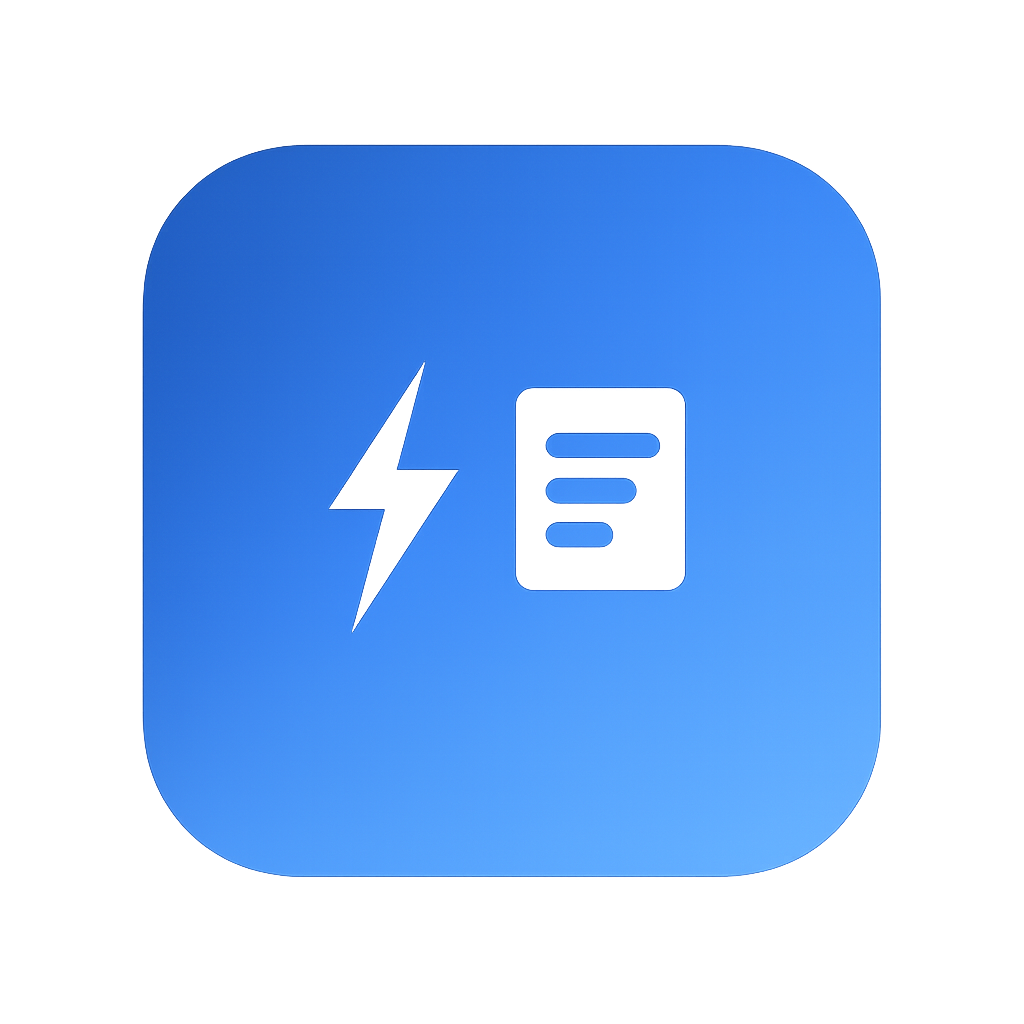
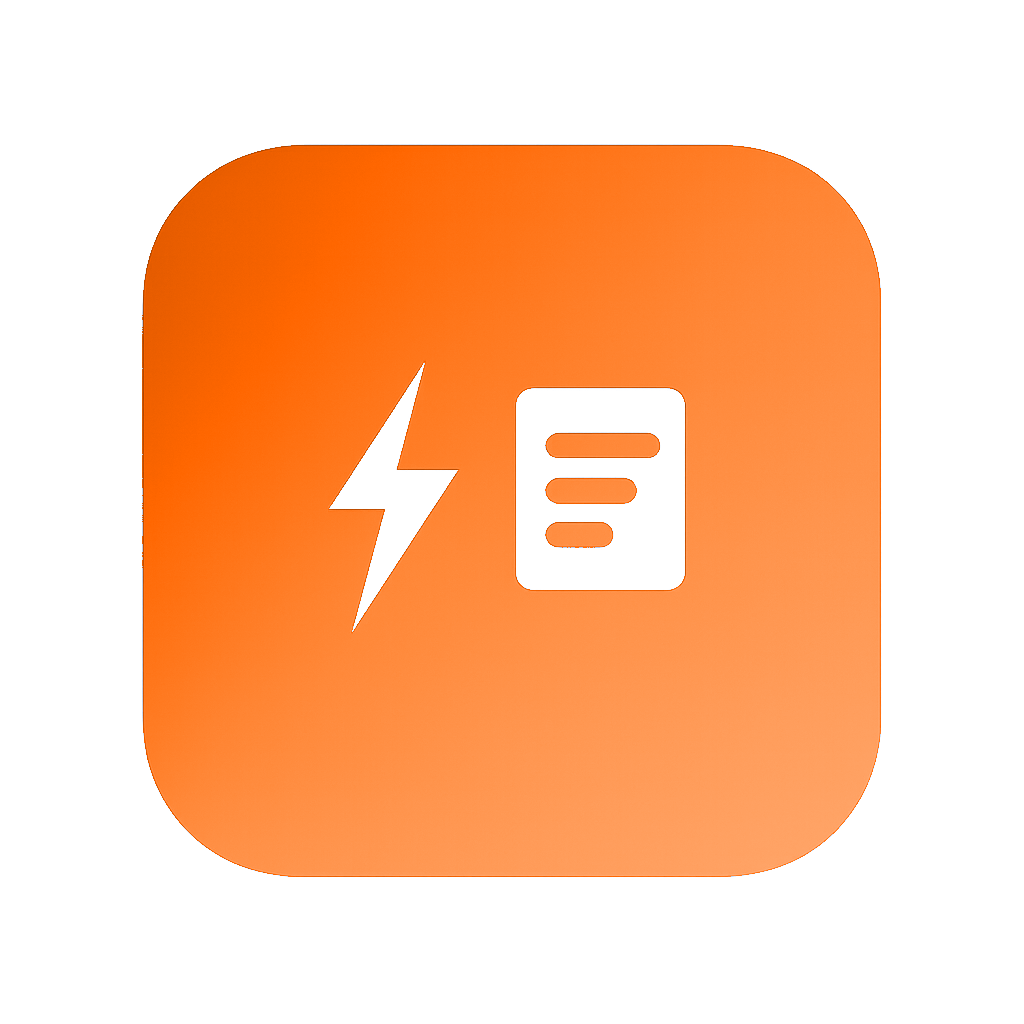
Change display theme website

diff --git a/src/components/Hero.tsx b/src/components/Hero.tsx
@@ -15,11 +15,11 @@ const Hero = () => {
   const Carousel = () => {
     const images = useMemo(
       () => [
-        '/images/nible/5.jpeg',
-        '/images/nible/1.jpeg',
-        '/images/nible/2.jpeg',
-        '/images/nible/4.jpeg',
-        '/images/nible/3.jpeg',
+        '/images/nible/5.png',
+        '/images/nible/1.png',
+        '/images/nible/2.png',
+        '/images/nible/4.png',
+        '/images/nible/3.png',
       ],
       []
     );
@@ -55,7 +55,7 @@ const Hero = () => {
             <span
               key={i}
               className={
-                "h-2 w-2 rounded-full " + (i === index ? "bg-white" : "bg-white/40")
+                "h-2 w-2 rounded-full " + (i === index ? "bg-primary" : "bg-primary/40")
               }
             />
           ))}
@@ -116,19 +116,19 @@ const Hero = () => {
             <div className="text-center lg:text-left">
               <div className="flex items-center justify-center lg:justify-start mb-6">
                 <Zap className="w-5 h-5 text-accent mr-2" />
-                <span className="text-accent font-inter font-medium text-base">Latest‑first • AI summarized</span>
+                <span className="text-accent font-inter font-medium text-base">Latest‑first • Ad-free</span>
               </div>
               
-              <h1 className="text-5xl sm:text-6xl lg:text-7xl font-poppins font-bold text-white mb-6 leading-tight">
+              <h1 className="text-5xl sm:text-6xl lg:text-7xl font-poppins font-bold text-foreground mb-6 leading-tight">
                 Fresh news.
                 <span className="text-primary block">Fast reads.</span>
               </h1>
               
-              <p className="text-xl sm:text-2xl text-white/80 font-inter mb-8 max-w-2xl mx-auto lg:mx-0">
-                Swipe through concise, AI‑crafted briefs—updated all day.
+              <p className="text-xl sm:text-2xl text-foreground/80 font-inter mb-8 max-w-2xl mx-auto lg:mx-0">
+                Swipe through concise, Ad-free briefs—updated all day.
               </p>
 
-              <p className="text-lg text-white/70 font-inter mb-12 max-w-xl mx-auto lg:mx-0">
+              <p className="text-lg text-foreground/70 font-inter mb-12 max-w-xl mx-auto lg:mx-0">
                 No fluff. Just what matters.
               </p>
 
@@ -145,17 +145,17 @@ const Hero = () => {
                     className="h-12"
                   />
                 </a>
-                <span className="inline-flex items-center bg-white/20 backdrop-blur-sm text-white/90 font-inter text-sm px-4 py-2 rounded-full">
+                <span className="inline-flex items-center bg-primary/10 backdrop-blur-sm text-foreground font-inter text-sm px-4 py-2 rounded-full border border-primary/20">
                   🤖 Android coming soon
                 </span>
               </div>
 
               {/* Newsletter Subscription */}
-              <div className="bg-white/10 backdrop-blur-sm rounded-2xl p-6 max-w-md mx-auto lg:mx-0">
-                <h3 className="text-white font-inter font-semibold text-lg mb-2">
+              <div className="bg-white/80 backdrop-blur-sm rounded-2xl p-6 max-w-md mx-auto lg:mx-0 border border-primary/20 shadow-lg">
+                <h3 className="text-foreground font-inter font-semibold text-lg mb-2">
                   📬 Subscribe to Daily Newsletter
                 </h3>
-                <p className="text-white/70 font-inter text-sm mb-4">
+                <p className="text-foreground/70 font-inter text-sm mb-4">
                   Get short news briefs delivered to your inbox every morning
                 </p>
                 <form onSubmit={handleNewsletterSubscribe} className="flex gap-3">
@@ -164,10 +164,10 @@ const Hero = () => {
                     placeholder="Enter your email" 
                     value={email} 
                     onChange={e => setEmail(e.target.value)} 
-                    className="bg-white/20 border-white/30 text-white placeholder:text-white/60 focus:border-white" 
+                    className="bg-white border-border text-foreground placeholder:text-muted-foreground focus:border-primary" 
                     required 
                   />
-                  <Button type="submit" className="bg-accent hover:bg-accent/90 text-accent-foreground px-6">
+                  <Button type="submit" className="bg-primary hover:bg-primary-hover text-primary-foreground px-6">
                     Subscribe
                   </Button>
                 </form>
@@ -175,14 +175,14 @@ const Hero = () => {
 
               {/* Social Media */}
               <div className="mt-6 text-center lg:text-left">
-                <p className="text-white/70 font-inter text-sm mb-3">
+                <p className="text-foreground/70 font-inter text-sm mb-3">
                   Follow us for daily news updates
                 </p>
                 <a 
                   href="https://www.instagram.com/nible.news/" 
                   target="_blank" 
                   rel="noopener noreferrer"
-                  className="inline-flex items-center gap-2 bg-gradient-to-r from-purple-500 to-pink-500 hover:from-purple-600 hover:to-pink-600 text-white px-4 py-2 rounded-full font-inter text-sm transition-all duration-200 hover:scale-105"
+                  className="inline-flex items-center gap-2 bg-white text-primary hover:bg-primary hover:text-white px-4 py-2 rounded-full font-inter text-sm transition-all duration-200 hover:scale-105 border border-primary/30 shadow-sm"
                 >
                   <Instagram className="w-4 h-4" />
                   Follow on Instagram

diff --git a/src/index.css b/src/index.css
@@ -8,41 +8,41 @@ All colors MUST be HSL.
 
 @layer base {
   :root {
-    /* Nible Brand Colors */
-    --primary: 211 100% 50%; /* #007AFF */
+    /* Nible Brand Colors - Softer Orange */
+    --primary: 24 85% 55%; /* Softer orange, less intense than #FF6600 */
     --primary-foreground: 0 0% 100%;
-    --primary-hover: 211 100% 45%;
+    --primary-hover: 24 85% 50%;
     
-    --accent: 4 86% 70%; /* #FF6B6B */
+    --accent: 24 75% 65%; /* Lighter, softer orange accent */
     --accent-foreground: 0 0% 100%;
     
-    /* Neutral Colors */
+    /* Neutral Colors - White and Orange Theme */
     --background: 0 0% 100%;
-    --foreground: 222 84% 5%;
+    --foreground: 222 47% 11%; /* Dark text for contrast */
     
     --card: 0 0% 100%;
-    --card-foreground: 222 84% 5%;
+    --card-foreground: 222 47% 11%;
     
     --popover: 0 0% 100%;
-    --popover-foreground: 222 84% 5%;
+    --popover-foreground: 222 47% 11%;
     
-    --secondary: 210 40% 96%;
+    --secondary: 24 30% 96%; /* Very light orange tint */
     --secondary-foreground: 222 47% 11%;
     
-    --muted: 210 40% 96%;
-    --muted-foreground: 215 16% 47%;
+    --muted: 24 20% 95%; /* Light orange-tinted grey */
+    --muted-foreground: 222 30% 40%; /* Darker grey for better contrast */
     
     --destructive: 0 84% 60%;
     --destructive-foreground: 0 0% 98%;
     
-    --border: 214 32% 91%;
-    --input: 214 32% 91%;
-    --ring: 211 100% 50%;
+    --border: 24 25% 88%; /* Light orange-tinted border */
+    --input: 24 25% 88%;
+    --ring: 24 85% 55%;
     
-    /* Dark gradient colors for hero */
-    --hero-from: 245 45% 15%; /* #1a1a2e */
-    --hero-via: 225 45% 20%; /* #16213e */
-    --hero-to: 215 75% 22%; /* #0f3460 */
+    /* Light gradient colors for hero - white to soft orange */
+    --hero-from: 24 40% 98%; /* Very light orange-tinted white */
+    --hero-via: 24 50% 95%; /* Light orange-tinted */
+    --hero-to: 24 60% 92%; /* Soft orange-tinted */
     
     --radius: 0.75rem;
     
@@ -51,33 +51,33 @@ All colors MUST be HSL.
   }
 
   .dark {
-    --background: 245 45% 15%;
+    --background: 24 30% 10%;
     --foreground: 0 0% 98%;
     
-    --card: 245 45% 15%;
+    --card: 24 30% 12%;
     --card-foreground: 0 0% 98%;
     
-    --popover: 245 45% 15%;
+    --popover: 24 30% 12%;
     --popover-foreground: 0 0% 98%;
     
-    --primary: 211 100% 50%;
+    --primary: 24 85% 55%;
     --primary-foreground: 0 0% 100%;
     
-    --secondary: 225 45% 20%;
+    --secondary: 24 35% 18%;
     --secondary-foreground: 0 0% 98%;
     
-    --muted: 225 45% 20%;
+    --muted: 24 35% 18%;
     --muted-foreground: 215 20% 65%;
     
-    --accent: 4 86% 70%;
+    --accent: 24 75% 65%;
     --accent-foreground: 0 0% 100%;
     
     --destructive: 0 63% 31%;
     --destructive-foreground: 0 0% 98%;
     
-    --border: 225 45% 20%;
-    --input: 225 45% 20%;
-    --ring: 211 100% 50%;
+    --border: 24 35% 20%;
+    --input: 24 35% 20%;
+    --ring: 24 85% 55%;
   }
 }
 

diff --git a/src/components/Features.tsx b/src/components/Features.tsx
@@ -41,11 +41,11 @@ const Features = () => {
   ];
 
   return (
-    <section id="features" className="relative py-24 bg-gradient-to-b from-sky-100/80 via-sky-50/80 to-transparent">
+    <section id="features" className="relative py-24 bg-gradient-to-b from-orange-100/80 via-orange-50/80 to-transparent">
       {/* Decorative background */}
       <div className="pointer-events-none absolute inset-0 overflow-hidden">
-        <div className="absolute -top-16 -left-8 h-48 w-48 rounded-full bg-sky-300/30 blur-2xl" />
-        <div className="absolute bottom-0 right-0 h-56 w-56 rounded-full bg-blue-300/25 blur-2xl" />
+        <div className="absolute -top-16 -left-8 h-48 w-48 rounded-full bg-orange-300/30 blur-2xl" />
+        <div className="absolute bottom-0 right-0 h-56 w-56 rounded-full bg-orange-300/25 blur-2xl" />
       </div>
 
       <div className="relative container mx-auto px-4 sm:px-6 lg:px-8">
@@ -63,13 +63,13 @@ const Features = () => {
           {features.map(({ icon: Icon, title, description }) => (
             <div
               key={title}
-              className="group relative rounded-2xl border border-sky-200/60 bg-white/70 backdrop-blur-sm p-6 transition-all hover:-translate-y-1 hover:shadow-xl max-w-sm mx-auto w-full"
+              className="group relative rounded-2xl border border-orange-200/60 bg-white/70 backdrop-blur-sm p-6 transition-all hover:-translate-y-1 hover:shadow-xl max-w-sm mx-auto w-full"
             >
               {/* glow ring */}
-              <div className="absolute inset-0 rounded-2xl ring-1 ring-transparent group-hover:ring-sky-300/30 transition" />
+              <div className="absolute inset-0 rounded-2xl ring-1 ring-transparent group-hover:ring-orange-300/30 transition" />
 
               <div className="mb-4 flex items-center gap-3">
-                <div className="h-12 w-12 rounded-xl bg-gradient-to-br from-sky-400/10 to-white text-sky-700 flex items-center justify-center ring-1 ring-sky-300/40">
+                <div className="h-12 w-12 rounded-xl bg-gradient-to-br from-orange-400/10 to-white text-orange-700 flex items-center justify-center ring-1 ring-orange-300/40">
                   <Icon className="h-5 w-5" />
                 </div>
                 <h3 className="font-poppins font-semibold text-base text-zinc-900">{title}</h3>
@@ -79,9 +79,9 @@ const Features = () => {
                 {description}
               </p>
 
-              <div className="mt-6 h-px w-full bg-gradient-to-r from-transparent via-sky-200/60 to-transparent" />
+              <div className="mt-6 h-px w-full bg-gradient-to-r from-transparent via-orange-200/60 to-transparent" />
               <div className="mt-3 flex items-center gap-2 text-xs text-zinc-600">
-                <span className="inline-block h-2 w-2 rounded-full bg-sky-400/80" />
+                <span className="inline-block h-2 w-2 rounded-full bg-orange-400/80" />
                 Optimized for daily use
               </div>
             </div>

diff --git a/src/components/Navbar.tsx b/src/components/Navbar.tsx
@@ -11,7 +11,7 @@ const Navbar = () => {
   ];
 
   return (
-    <nav className="fixed top-0 w-full bg-blue/50 backdrop-blur-md border-b border-border z-50">
+    <nav className="fixed top-0 w-full bg-white/95 backdrop-blur-md border-b border-border z-50 shadow-sm">
       <div className="container mx-auto px-4 sm:px-6 lg:px-8">
         <div className="flex items-center justify-between h-16">
           {/* Brand + Tagline */}
@@ -23,9 +23,9 @@ const Navbar = () => {
                 className="h-12 w-12 rounded-md object-contain"
                 loading="lazy"
               />
-              <span className="text-white font-poppins font-semibold text-2xl tracking-tight">Nible</span>
+              <span className="text-primary font-poppins font-semibold text-2xl tracking-tight">Nible</span>
             </a>
-            <span className="hidden md:inline text-white/90 text-base font-inter">Quick reads for busy minds.</span>
+            <span className="hidden md:inline text-foreground/70 text-base font-inter">Quick reads for busy minds.</span>
           </div>
 
           {/* Desktop Navigation */}
@@ -35,7 +35,7 @@ const Navbar = () => {
                 <a
                   key={item.name}
                   href={item.href}
-                  className="text-muted-foreground hover:text-foreground px-3 py-2 text-base font-inter font-medium transition-colors"
+                  className="text-foreground hover:text-primary px-3 py-2 text-base font-inter font-medium transition-colors"
                 >
                   {item.name}
                 </a>
@@ -57,7 +57,7 @@ const Navbar = () => {
           <div className="md:hidden">
             <button
               onClick={() => setIsOpen(!isOpen)}
-              className="text-muted-foreground hover:text-foreground"
+              className="text-foreground hover:text-primary"
             >
               {isOpen ? <X size={24} /> : <Menu size={24} />}
             </button>
@@ -72,7 +72,7 @@ const Navbar = () => {
                 <a
                   key={item.name}
                   href={item.href}
-                  className="text-muted-foreground hover:text-foreground block px-3 py-2 text-base font-inter font-medium"
+                  className="text-foreground hover:text-primary block px-3 py-2 text-base font-inter font-medium"
                   onClick={() => setIsOpen(false)}
                 >
                   {item.name}

diff --git a/src/pages/NotFound.tsx b/src/pages/NotFound.tsx
@@ -16,7 +16,7 @@ const NotFound = () => {
       <div className="text-center">
         <h1 className="text-4xl font-bold mb-4">404</h1>
         <p className="text-xl text-gray-600 mb-4">Oops! Page not found</p>
-        <a href="/" className="text-blue-500 hover:text-blue-700 underline">
+        <a href="/" className="text-primary hover:text-primary-hover underline">
           Return to Home
         </a>
       </div>
